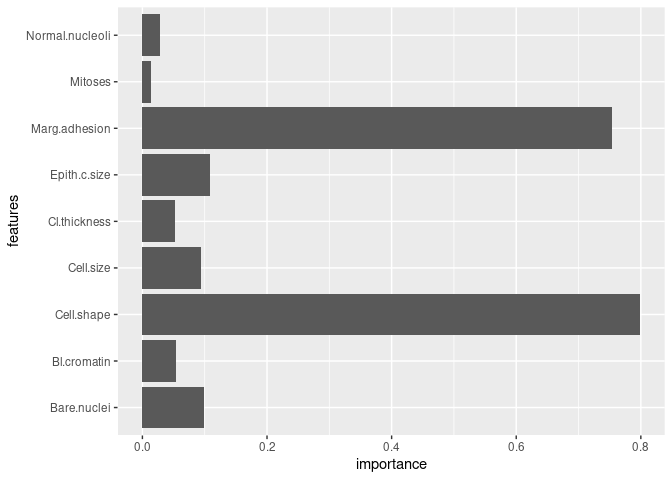
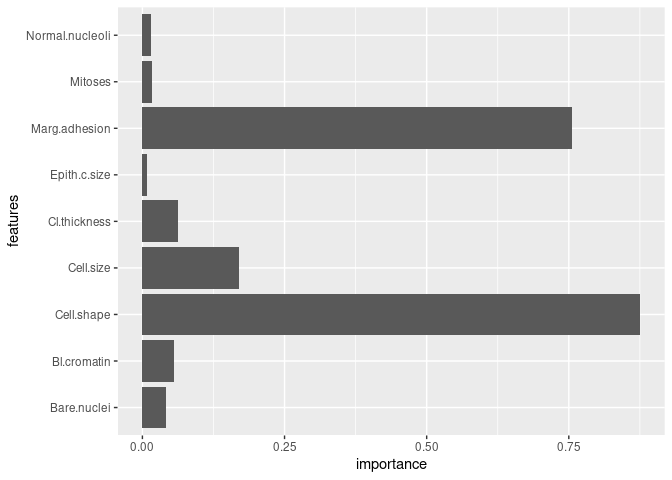
cran prep

diff --git a/README.md b/README.md
@@ -26,8 +26,6 @@ You can install the released version of ngboost from
 [CRAN](https://CRAN.R-project.org) with:
 
 ``` r
-# not yet
-
 install.packages("ngboost")
 ```
 
@@ -35,6 +33,7 @@ And the development version from [GitHub](https://github.com/) with:
 
 ``` r
 # install.packages("devtools")
+
 devtools::install_github("Akai01/ngboost")
 ```
 
@@ -78,19 +77,19 @@ model$fit(X = x_train, Y = y_train, X_val = x_test, Y_val = y_test)
 
 model$feature_importances()
 #>    features  importance
-#> 1      crim 0.142399208
-#> 2        zn 0.001203715
-#> 3     indus 0.010923345
-#> 4      chas 0.001173010
-#> 5       nox 0.098952132
-#> 6        rm 0.172952519
-#> 7       age 0.026715749
-#> 8       dis 0.056945422
-#> 9       rad 0.003705938
-#> 10      tax 0.015719317
-#> 11  ptratio 0.019257480
-#> 12    black 0.024229980
-#> 13    lstat 0.425822185
+#> 1      crim 0.122288415
+#> 2        zn 0.001597048
+#> 3     indus 0.011390725
+#> 4      chas 0.001026770
+#> 5       nox 0.072995171
+#> 6        rm 0.184250085
+#> 7       age 0.031541709
+#> 8       dis 0.049929326
+#> 9       rad 0.005215137
+#> 10      tax 0.020678474
+#> 11  ptratio 0.024152711
+#> 12    black 0.027510986
+#> 13    lstat 0.447423444
 
 model$plot_feature_importance()
 ```
@@ -99,7 +98,7 @@ model$plot_feature_importance()
 
 ``` r
 model$predict(x_test)%>%head()
-#> [1] 29.02222 22.10507 33.97874 32.62122 18.23236 20.92843
+#> [1] 33.79651 24.74818 19.67144 19.80951 20.51384 18.36694
 
 distt <- model$pred_dist(x_test) # it returns a NGBDist
 
@@ -110,46 +109,46 @@ class(distt)
 
 distt$interval(confidence = .9)
 #> [[1]]
-#>   [1] 1.4886451 1.1338418 1.7428817 1.6732499 0.9351977 1.0734879 1.1146075
-#>   [8] 1.0660200 0.7792490 1.1244381 0.9896841 0.7826185 0.9587932 0.9966620
-#>  [15] 1.6276390 1.0043995 1.0907593 1.2089458 1.1099767 1.2179538 1.1420366
-#>  [22] 1.0659717 1.1800493 1.5311154 1.2291027 1.1221730 1.5786443 0.9335236
-#>  [29] 1.0335640 0.9947969 1.0405290 1.0155754 0.9926447 0.9013738 0.8903351
-#>  [36] 0.8536084 1.0183868 0.9095356 0.7505455 0.7336754 0.6623609 0.6884665
-#>  [43] 0.7130477 2.1779588 1.0598753 1.1115150 1.3572091 1.5212450 1.5724342
-#>  [50] 1.7530230 1.6403755 1.6497670 1.2009328 1.1863139 1.1629569 1.4564060
-#>  [57] 1.1411421 2.1676792 1.3310018 1.3449847 1.2438100 0.9626404 1.1815605
-#>  [64] 1.2582108 1.6901488 1.0901383 1.6071295 2.2629240 1.3918248 1.1546943
-#>  [71] 1.5541043 1.6616953 1.1952458 1.1188410 1.0511425 1.2406214 1.6158877
-#>  [78] 1.5271243 1.0315190 1.0325474 1.1148108 1.1637825 1.0238628 1.0008041
-#>  [85] 1.3670743 1.1298756 1.5524612 1.0567987 1.1814300 1.0681803 1.0647405
-#>  [92] 1.0439024 0.9127987 1.7932182 1.9039662 1.8424804 0.6995121 0.6463180
-#>  [99] 0.4126952 0.6219038 0.5375460 0.7906460 0.5685875 0.8643478 0.8680059
-#> [106] 1.0969450 0.7924119 0.5366259 0.8427772 0.8403751 0.8373088 0.7899793
-#> [113] 0.8468204 0.8046080 0.8669816 1.0586106 0.9645191 0.9808457 0.8393148
-#> [120] 1.0084712 1.0625228 1.1055432 0.4954059 0.8176753 0.9866202 1.0232595
-#> [127] 1.0725107
+#>   [1] 1.7335342 1.2694158 1.0090132 1.0160950 1.0522224 0.9421009 0.7919649
+#>   [8] 1.0937962 0.8705184 0.7697177 1.0695675 1.1612282 1.0741747 1.0954219
+#>  [15] 1.0080916 1.0445587 1.0558903 1.1826124 1.1802470 1.2167844 2.1213375
+#>  [22] 1.1719697 1.1856366 1.0879803 1.0291072 1.0848495 1.0916226 1.0187155
+#>  [29] 1.0244920 0.8334700 0.7970061 0.8435389 0.7997304 0.8398757 0.9216819
+#>  [36] 0.8597677 1.2962384 1.2272370 2.3181089 1.1418077 1.1238467 1.1064920
+#>  [43] 1.2486544 1.1284879 1.2102655 2.2689474 1.1353566 0.9110310 1.2531363
+#>  [50] 1.0593714 0.9512059 1.2508219 2.1508542 1.1430072 1.6242410 1.0585995
+#>  [57] 1.0269948 1.6292973 1.1554335 1.0175753 2.0894439 2.2634202 1.1850379
+#>  [64] 1.3050076 1.9796766 1.5864826 2.2644639 1.2489179 1.6558654 1.7730200
+#>  [71] 1.4621893 1.0273868 1.1422207 1.2222028 1.2156718 1.2232493 1.2199572
+#>  [78] 1.0836709 1.0700776 0.9984165 1.1060825 1.2643207 1.3475103 0.8048093
+#>  [85] 1.7583148 1.9762707 0.7700735 0.6777197 0.4501729 0.6178796 0.7942079
+#>  [92] 0.5972010 0.4913990 0.8248404 0.7902368 0.5411259 0.5673426 0.8138058
+#>  [99] 1.0706643 0.8030909 0.7028434 0.8284733 0.5722750 0.5705156 0.5471899
+#> [106] 0.6292867 0.7588841 0.8237889 0.9132897 0.8562711 1.0759295 0.8037003
+#> [113] 0.9488967 0.9813638 0.8430129 0.8153520 0.7656170 0.8158763 1.0336814
+#> [120] 1.0727838 1.0548741 1.1221120 1.0095198 0.6168160 1.0623106 1.1263424
+#> [127] 1.0359753
 #> 
 #> [[2]]
-#>   [1]  86.94279  66.22087 101.79122  97.72445  54.61926  62.69596  65.09751
-#>   [8]  62.25980  45.51124  65.67165  57.80149  45.70803  55.99734  58.20902
-#>  [15]  95.06059  58.66092  63.70468  70.60724  64.82705  71.13334  66.69948
-#>  [22]  62.25699  68.91957  89.42322  71.78448  65.53936  92.19910  54.52149
-#>  [29]  60.36424  58.10009  60.77103  59.31364  57.97440  52.64382  51.99911
-#>  [36]  49.85413  59.47784  53.12049  43.83484  42.84956  38.68451  40.20918
-#>  [43]  41.64482 127.20145  61.90093  64.91690  79.26641  88.84675  91.83641
-#>  [50] 102.38351  95.80445  96.35295  70.13925  69.28545  67.92131  85.05990
-#>  [57]  66.64723 126.60108  77.73580  78.55245  72.64345  56.22202  69.00783
-#>  [64]  73.48451  98.71141  63.66841  93.86275 132.16376  81.28810  67.43874
-#>  [71]  90.76587  97.04961  69.80711  65.34476  61.39090  72.45722  94.37426
-#>  [78]  89.19013  60.24481  60.30487  65.10938  67.96952  59.79766  58.45094
-#>  [85]  79.84257  65.98922  90.66990  61.72125  69.00021  62.38597  62.18508
-#>  [92]  60.96805  53.31107 104.73107 111.19919 107.60818  40.85429  37.74754
-#>  [99]  24.10304  36.32165  31.39482  46.17687  33.20777  50.48135  50.69499
-#> [106]  64.06595  46.28001  31.34108  49.22154  49.08125  48.90216  46.13793
-#> [113]  49.45768  46.99230  50.63517  61.82706  56.33175  57.28528  49.01932
-#> [120]  58.89873  62.05555  64.56812  28.93367  47.75549  57.62254  59.76242
-#> [127]  62.63889
+#>   [1] 101.24529  74.13893  58.93038  59.34399  61.45397  55.02244  46.25390
+#>   [8]  63.88204  50.84173  44.95458  62.46700  67.82034  62.73607  63.97699
+#>  [15]  58.87656  61.00638  61.66819  69.06926  68.93112  71.06505 123.89454
+#>  [22]  68.44769  69.24589  63.54238  60.10395  63.35952  63.75510  59.49703
+#>  [29]  59.83441  48.67796  46.54832  49.26603  46.70743  49.05208  53.82989
+#>  [36]  50.21385  75.70548  71.67552 135.38678  66.68611  65.63711  64.62353
+#>  [43]  72.92638  65.90818  70.68432 132.51555  66.30934  53.20783  73.18814
+#>  [50]  61.87150  55.55421  73.05297 125.61843  66.75616  94.86213  61.82642
+#>  [57]  59.98058  95.15744  67.48191  59.43044 122.03183 132.19273  69.21092
+#>  [64]  76.21763 115.62098  92.65689 132.25369  72.94177  96.70912 103.55142
+#>  [71]  85.39767  60.00348  66.71023  71.38150  71.00006  71.44262  71.25035
+#>  [78]  63.29069  62.49679  58.31149  64.59961  73.84136  78.69996  47.00406
+#>  [85] 102.69257 115.42206  44.97535  39.58153  26.29189  36.08663  46.38490
+#>  [92]  34.87891  28.69966  48.17396  46.15297  31.60390  33.13506  47.52949
+#>  [99]  62.53105  46.90370  41.04885  48.38614  33.42313  33.32038  31.95807
+#> [106]  36.75284  44.32185  48.11254  53.33975  50.00963  62.83856  46.93929
+#> [113]  55.41934  57.31555  49.23531  47.61980  44.71508  47.65042  60.37110
+#> [120]  62.65484  61.60884  65.53580  58.95997  36.02451  62.04316  65.78287
+#> [127]  60.50508
 ```
 
 Classification example:
@@ -183,25 +182,25 @@ model <- NGBClassifier$new(Dist = Dist("k_categorical", k = 3),
 model$fit(x_train, y_train, X_val = x_test, Y_val = y_test)
 
 model$feature_importances()
-#>           features  importance
-#> 1     Cl.thickness 0.034702613
-#> 2        Cell.size 0.033569264
-#> 3       Cell.shape 0.737087801
-#> 4    Marg.adhesion 0.736255270
-#> 5     Epith.c.size 0.085793571
-#> 6      Bare.nuclei 0.075757042
-#> 7      Bl.cromatin 0.030643950
-#> 8  Normal.nucleoli 0.026617579
-#> 9          Mitoses 0.009599385
-#> 10    Cl.thickness 0.016987457
-#> 11       Cell.size 0.061139834
-#> 12      Cell.shape 0.061277870
-#> 13   Marg.adhesion 0.017239617
-#> 14    Epith.c.size 0.022057551
-#> 15     Bare.nuclei 0.022361628
-#> 16     Bl.cromatin 0.022825271
-#> 17 Normal.nucleoli 0.001431600
-#> 18         Mitoses 0.004652697
+#>           features   importance
+#> 1     Cl.thickness 4.837859e-02
+#> 2        Cell.size 4.348554e-02
+#> 3       Cell.shape 7.465027e-01
+#> 4    Marg.adhesion 7.500175e-01
+#> 5     Epith.c.size 3.289445e-03
+#> 6      Bare.nuclei 1.382879e-09
+#> 7      Bl.cromatin 1.064850e-02
+#> 8  Normal.nucleoli 1.291000e-02
+#> 9          Mitoses 1.554263e-02
+#> 10    Cl.thickness 1.410349e-02
+#> 11       Cell.size 1.263905e-01
+#> 12      Cell.shape 1.284053e-01
+#> 13   Marg.adhesion 5.491140e-03
+#> 14    Epith.c.size 4.117195e-03
+#> 15     Bare.nuclei 4.217344e-02
+#> 16     Bl.cromatin 4.537793e-02
+#> 17 Normal.nucleoli 1.583045e-03
+#> 18         Mitoses 1.583046e-03
 
 model$plot_feature_importance()
 ```
@@ -210,18 +209,18 @@ model$plot_feature_importance()
 
 ``` r
 model$predict(x_test)
-#>   [1] 1 1 2 2 2 1 2 2 2 2 1 1 1 2 2 1 1 2 2 1 1 1 1 1 1 1 1 1 1 2 2 1 2 1 2 1 2
-#>  [38] 1 1 1 2 1 2 2 1 2 2 1 1 1 1 2 1 2 2 1 1 2 1 2 2 1 2 2 1 2 2 1 2 1 2 1 1 1
-#>  [75] 1 1 2 2 1 2 2 1 1 1 1 1 1 2 1 1 1 1 1 1 1 1 1 2 1 1 1 2 1 1 2 1 1 2 2 1 2
-#> [112] 1 2 1 2 2 1 1 1 1 1 1 2 1 1 2 1 2 1 1 1 1 1 1 1 1 1 1 1 1 1 1 1 2 2 1 1 1
-#> [149] 1 1 2 1 1 1 1 1 1 1 1 1 1 1 1 1 1 1 1 1 1 2 2
+#>   [1] 1 2 1 2 1 2 1 1 1 1 2 1 1 2 1 1 2 2 2 1 2 2 1 1 1 2 1 1 1 1 1 1 1 2 2 1 1
+#>  [38] 1 1 1 1 1 2 1 2 2 2 1 1 1 1 2 1 2 1 2 1 2 2 2 1 2 1 1 1 2 1 2 2 1 1 1 2 2
+#>  [75] 1 2 1 2 1 2 2 2 1 1 2 1 1 2 1 2 2 2 2 2 2 1 2 2 1 1 1 1 2 1 1 1 1 1 2 1 1
+#> [112] 1 1 1 2 1 2 1 1 1 1 1 1 1 1 1 1 1 2 1 2 1 1 1 1 1 1 1 1 1 1 1 1 1 1 1 1 1
+#> [149] 2 2 1 2 1 2 2 2 2 1 1 1 1 1 1 1 1 1 1 2 1 1 2
 
 model$predict_proba(x_test)%>%head()
 #>              [,1]         [,2]         [,3]
-#> [1,] 2.898729e-11 9.999996e-01 4.363088e-07
-#> [2,] 1.035215e-15 1.000000e+00 5.564671e-16
-#> [3,] 1.035215e-15 5.564671e-16 1.000000e+00
-#> [4,] 1.035215e-15 5.564671e-16 1.000000e+00
-#> [5,] 1.035215e-15 5.564671e-16 1.000000e+00
-#> [6,] 1.035215e-15 1.000000e+00 5.564671e-16
+#> [1,] 8.925742e-16 1.000000e+00 4.715989e-16
+#> [2,] 1.493596e-13 1.320539e-11 1.000000e+00
+#> [3,] 8.925742e-16 1.000000e+00 4.715989e-16
+#> [4,] 8.925743e-16 4.715991e-16 1.000000e+00
+#> [5,] 8.925742e-16 1.000000e+00 4.715989e-16
+#> [6,] 8.925742e-16 4.715989e-16 1.000000e+00
 ```
